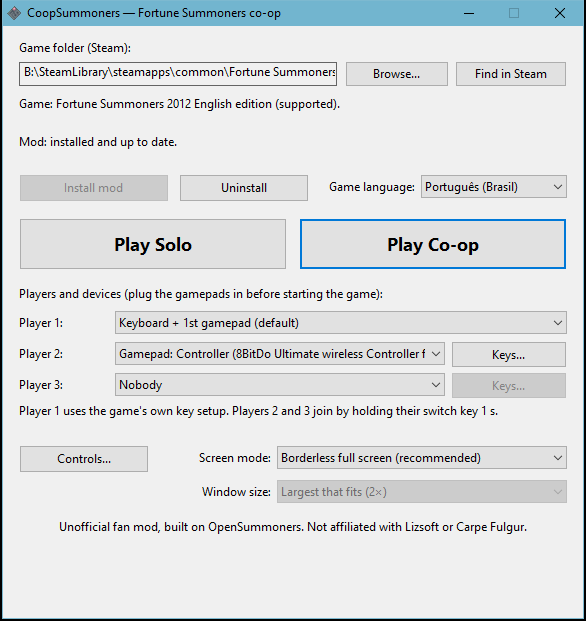
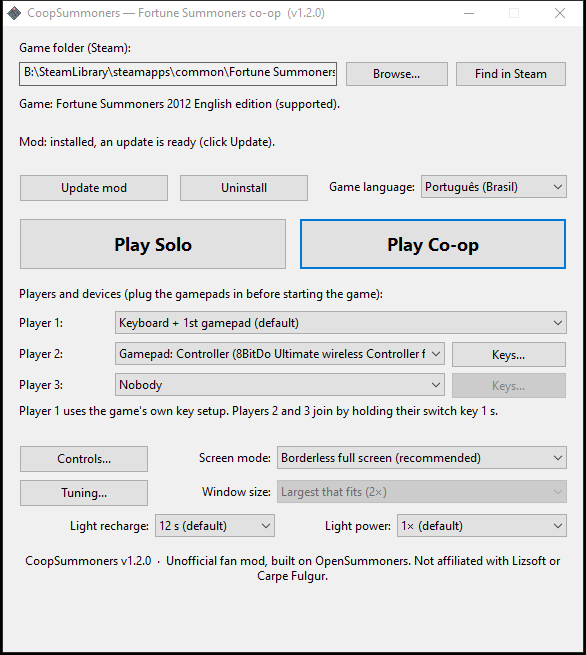
README: v1.2.0 -- camera, spell sight, fallen warning, coop-tuning.ini, the split files

diff --git a/README.md b/README.md
@@ -15,7 +15,7 @@ light that collects coins, carries items and heals the party.
 > Unofficial fan project. Not affiliated with Lizsoft or Carpe Fulgur. **No game files are
 > included:** you need your own copy of the game (Steam, 2012 edition).
 
-**[⬇ Download the latest version](https://github.com/BLKNeko/CoopSummoners/releases)** ·
+**[⬇ Download the latest version](https://github.com/BLKNeko/CoopSummoners/releases)** (v1.2.0) ·
 [Install](#install) · [Controls](#controls) · [Problems?](#troubleshooting)
 
 ---
@@ -28,8 +28,15 @@ light that collects coins, carries items and heals the party.
 - **Swap characters** with another player by pressing switch at the same time.
 - **A support light** for players waiting for a character: collects coins, pulls them in
   with a magnet, carries items to the leader, sends a healing wave and pings spots on screen.
+- **Camera for anyone:** a key passes the camera to the next player; it moves on by itself
+  when the player it follows falls.
+- **Support spells you can aim:** a sight shows which ally Sana's shield (and similar spells)
+  will reach, and up / down picks another one.
+- **Clear warnings:** "P2 joined / left / down" notices, and a grey badge with a red X over a
+  fallen player.
 - **Easy launcher:** finds the game, installs the mod in one click, sets each player's
-  controls and backs up your saves.
+  controls, backs up your saves and lets you tune the support light.
+- **Tunable:** the light, the wave and the switch timings live in `coop-tuning.ini`.
 - **Smooth full screen** (no lag on Windows 10 / 11) and bigger window sizes.
 - **Brazilian Portuguese translation** (optional).
 - Without co-op, the game plays **exactly like the original**.
@@ -38,6 +45,8 @@ light that collects coins, carries items and heals the party.
 |:---:|:---:|:---:|
 | ![The light's wave heals Arche](docs/media/coop-light-wave.png) | ![The light carries a chest](docs/media/coop-light-carry.png) | ![A third player, with the Portuguese translation](docs/media/coop-p3-pt.png) |
 | The light's wave heals nearby allies | Carrying an item to the leader | A third player (here with the Portuguese translation) |
+| ![Player 2 is down: a grey badge with a red X, and the camera moved to player 1](docs/media/coop-p2-down.png) | | |
+| Player 2 fell: the warning, and the camera moved on to player 1 | | |
 
 ---
 
@@ -71,7 +80,17 @@ Your saves and settings are kept.
 
 In the launcher you can also pick the **game language**, the **screen mode** (borderless full
 screen is recommended), the **window size**, the support light's **recharge** (5 to 30 s, 12 s by default) and
-**power** (1× to 4×: the wave's heal and damage), and see all the **controls**.
+**power** (1× to 4×: the wave's heal and damage), and see all the **controls**. The launcher's
+title bar and footer show the mod's **version**.
+
+### Fine-tuning (`coop-tuning.ini`)
+
+**Tuning...** in the launcher opens `coop-tuning.ini` (in the game folder) in Notepad. Every
+value is explained in the file: the switch timings (join, leave, swap, drop everyone), how long
+notices stay, the light's speed, reach, magnet and idle time, and the wave's reach, heal,
+damage and recharge. Save the file and start the game again. Delete a line to go back to the
+default; a value out of range is ignored (`coop.log` says so). The launcher's *Light recharge* and
+*Light power* win over the file's `wave_ms` / `wave_power`. Updating the mod keeps your file.
 
 ---
 
@@ -128,8 +147,9 @@ The light goes away after 10 s without input. The number under it counts the coi
 - During **cutscenes**, the AI plays everyone's characters for a moment, then gives them back.
 - A character at **0 HP** stays with its player: they can walk and jump but not attack until
   healed. **Game over** only when the whole party is down.
-- A blue **P2** / purple **P3** badge shows each player's character; an arrow on the screen
-  edge shows where they are when off screen.
+- A pink **P1** (while the camera follows someone else) / blue **P2** / purple **P3** badge shows
+  each player's character; an arrow on the screen edge shows where they are when off screen.
+- When a player falls, their badge turns **grey with a red X** and a "P2 DOWN" notice shows.
 - **Playing online:** the mod is local co-op. To play with friends far away, stream the game
   with [Parsec](https://parsec.app/) (not tested yet).
 - **Portuguese:** pick *Português (Brasil)* under *Game language* in the launcher (or
@@ -160,7 +180,8 @@ The light goes away after 10 s without input. The number under it counts the coi
 ## Uninstall
 
 Click **Uninstall** in the launcher, then delete the launcher's folder. Your saves and backups
-stay in the game folder; the original game files are never changed.
+stay in the game folder; the original game files are never changed. (Uninstall also removes
+`coop-tuning.ini` and `coop-controls.ini`.)
 
 ---
 
@@ -413,7 +434,13 @@ producers, from each player's keyboard keys or own gamepad as `coop-controls.ini
 
 | File | What it does |
 |---|---|
-| `src/coop.c`, `src/coop.h` | Everything co-op: players 2 / 3's input (keys, gamepads), attach / release, the switch rules, the fallen-character filter, the spell panel choice, the lights (coins, magnet, carrying items, the wave, ping), the support-spell sight, the camera key, the P1 / P2 / P3 markers and notices. |
+| `src/coop.h` | The co-op interface the engine calls (`coop_produce`, `coop_tick`, `coop_overlay_draw`, ...). |
+| `src/coop.c` | Players 2 / 3's input (keys, gamepads), attach / release, the switch rules, the fallen-character filter, the spell panel choice, the status line, the test hooks. |
+| `src/coop_camera.c` | Which player the camera follows (the camera key, moving on when that player falls). |
+| `src/coop_light.c` | The light of players with no character: coins, magnet, carrying items, ping, the wave. |
+| `src/coop_overlay.c` | Everything drawn over the game: the P1 / P2 / P3 markers, fallen warnings, notices, hold bars, the lights, the support-spell sight. |
+| `src/coop_tune.c`, `tools/launcher/coop-tuning.ini` | The tuning values: defaults, the file the launcher installs, and how it's read. |
+| `src/coop_internal.h` | What the co-op files share. |
 | `src/scene_loop.c` | Creates the extra input managers when co-op is on. |
 | `src/room_loop.c`, `src/room_load.c` | Feed players 2 / 3 (`coop_produce`); run `coop_tick`; filter a fallen player's commands; the camera follows `coop_camera_char`. |
 | `src/input_dev.c` | Gamepad re-acquire after hot-plug (co-op only); player 1's gamepad from the launcher's choice. |

diff --git a/tools/coop/tests/README.md b/tools/coop/tests/README.md
@@ -114,3 +114,17 @@ launcher's "Light recharge" 5-30 s) and `--coop-light-power N` (1-4, "Light powe
 defence 3 -> 1"; the f22700 tap (3.8 s) is denied (shot f22706: the red arc ~1/3, of 12 s). With `--coop-light-recharge
 30 --coop-light-power 4`: the first heal shows "16" (Arche 84 -> 100, 32 % capped at her max; default "8") and the
 second wave is denied (20 s < 30 s). Non-co-op 10 equal `gate-upstream`; T1-T7 equal the previous build.
+
+**v1.2.0 (2026-11-16):**
+- Drop-out fix: a lone switch tap re-posts a press for room_keys; left untaken (no member to switch to), coop read
+  it as player 1's press after 200 ms and P1's switch stayed "held" -> the next join was dropped 16 ms later.
+  Repro: `marker-r2` trace C (owner's early-game recording) cut at f28000, `--coop-wait`, P2 numpad + f27820-27900:
+  before "player 2 joined" + "dropped out by player 1" at +16; after: joined, stays.
+- The split of coop.c (coop_camera / coop_light / coop_overlay / coop_tune): a build of 5707c83 vs the split build on
+  all 14 co-op traces (T1-T9, F1, L1-L4) -> frame / tick / rng / fb all equal.
+- coop-tuning.ini (the game folder): `L4-wave` with wave_ms 3000 + wave_power 4 + notice_ms 99999999 ->
+  coop.log "tuning: notice_ms = 99999999 out of 200..20000, kept", "22 values"; the f22700 tap now waves (3 s) and the
+  slime hit is 5 instead of 1 (x4). coop_log runs before the engine's clock exists there (tick printed 0; it
+  crashed the start before that fix).
+- Fallen warning: `--coop-test-hp 4100:1:0` on the owner's save -> coop.log "player 2 fell", a "P2 DOWN" notice and
+  P2's badge grey with a red X (shot f4115).
